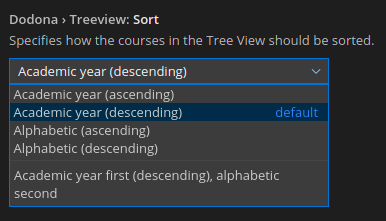
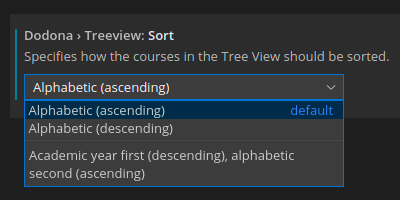
Rewrite course sorting

Changed region(s): [[0.0, 0.15, 0.9948, 0.96], [0.0, 0.06, 0.4352, 0.12]]

diff --git a/src/treeView/dataProvider.ts b/src/treeView/dataProvider.ts
@@ -96,35 +96,18 @@ export default class RootDataProvider
         // so this can be made a bit abstract to avoid duplication
         const priority = sortOption.includes("ascending") ? -1 : 1;
 
-        // Sorting always puts the second option descending to make it easier to read
-
-        // Sort by name first
-        if (sortOption.startsWith("Alphabetic")) {
-            return courses.sort((a, b) =>
-                a.name < b.name
-                    ? priority
-                    : a.name > b.name
-                    ? -priority
-                    : a.year < b.year
-                    ? -1
-                    : a.year > b.year
-                    ? 1
-                    : 0,
-            );
-        } else {
-            // Sort by year first
-            return courses.sort((a, b) =>
-                a.year < b.year
-                    ? priority
-                    : a.year > b.year
-                    ? -priority
-                    : a.name < b.name
-                    ? -1
-                    : a.name > b.name
-                    ? 1
-                    : 0,
-            );
-        }
+        // Sort by year (descending) first, name second
+        return courses.sort((a, b) =>
+            a.year < b.year
+                ? 1
+                : a.year > b.year
+                ? -1
+                : a.name < b.name
+                ? priority
+                : a.name > b.name
+                ? -priority
+                : 0,
+        );
     }
 
     filterCourses(courses: Course[]): Course[] {

diff --git a/README.md b/README.md
@@ -66,7 +66,7 @@ After a few seconds, you should see a popup in the bottom right corner containin
 
 ## Sorting and filtering courses (Usage)
 
-You can change the order in which courses are shown using the `dodona.treeview.sort` dropdown in the settings. By default, this will be set to sort by `Alphabetic (ascending)`.
+You can change the order in which courses are shown using the `dodona.treeview.sort` dropdown in the settings. By default, this will be set to sort by `Alphabetic (ascending)`. Courses are always sorted by `Academic Year (descending)` primarily, so that your most recent courses are always on top of the list.
 
 ![Sorting](assets/readme/sort-example.png)
 
